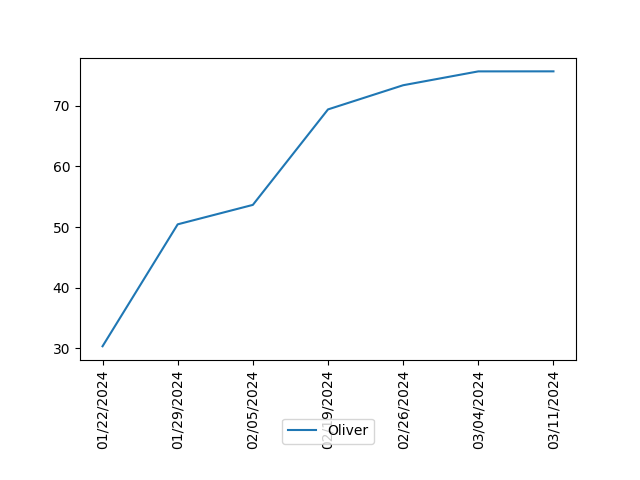
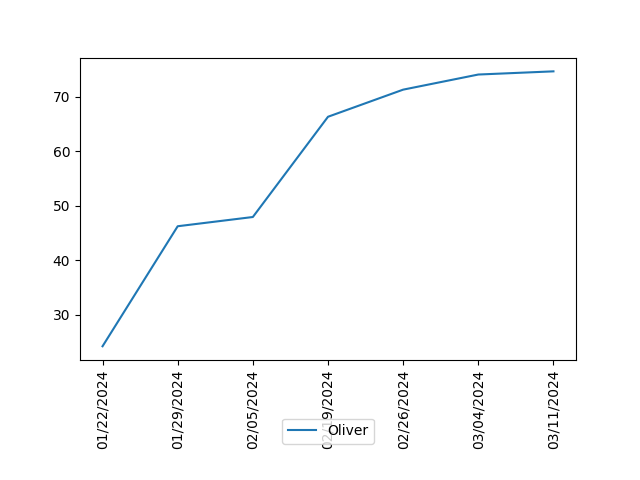
update rankings

diff --git a/parse_results.py b/parse_results.py
@@ -7,7 +7,7 @@ from   trueskill import TrueSkill
 LUCK_FACTORS = {
         'Exploding Kittens': 10.0,
         'What do you Meme': 10.0,
-        'Incan Gold': 5.0,
+        'Incan Gold': 10.0,
         'Love Letter': 5.0,
         'No Thanks': 5.0,
         'Coup' : 3.0,

diff --git a/README.md b/README.md
@@ -5,30 +5,30 @@
 
 | Player | ELO | Wins | Losses | Win % | Best Game |
 | --- | --- | --- | --- | --- | --- |
-| Oliver | 75.67 | 8 | 16 | 33% | Coup |
-| Jelita | 71.93 | 4 | 3 | 57% | Avalon |
-| Simon | 65.70 | 4 | 0 | 100% | Avalon |
-| Jovan | 59.62 | 3 | 2 | 60% | Coup |
-| Abhi | 58.96 | 3 | 1 | 75% | Avalon |
-| Peter | 58.76 | 7 | 7 | 50% | Secret Hitler |
-| Clarys | 55.07 | 2 | 0 | 100% | Love Letter |
-| Susan | 54.80 | 2 | 2 | 50% | Codenames |
-| Kazumi | 49.04 | 1 | 6 | 14% | Camel Up |
-| Dan | 48.43 | 2 | 2 | 50% | Wavelength |
-| Leo | 47.29 | 5 | 13 | 28% | Codenames |
-| Kenny | 44.79 | 1 | 1 | 50% | No Thanks |
-| Harsha | 43.73 | 2 | 3 | 40% | Wavelength |
-| Aaron | 41.62 | 1 | 2 | 33% | Bang |
-| Sincere | 41.45 | 3 | 8 | 27% | Coup |
-| Siri | 39.32 | 1 | 3 | 25% | Love Letter |
-| Queenie | 38.18 | 2 | 4 | 33% | Codenames |
-| Viktoria | 37.72 | 0 | 3 | 0% | No Thanks |
-| Julie | 33.69 | 0 | 1 | 0% | Incan Gold |
-| Rebecca | 28.36 | 0 | 1 | 0% | Avalon |
-| JustinKhoo | 28.10 | 1 | 3 | 25% | Incan Gold |
-| Daphne | 26.80 | 0 | 1 | 0% | Secret Hitler |
-| Vivienne | 25.06 | 0 | 1 | 0% | Codenames |
-| Trista | 22.84 | 0 | 3 | 0% | Bang |
+| Oliver | 74.67 | 8 | 16 | 33% | Coup |
+| Jelita | 68.93 | 4 | 3 | 57% | Avalon |
+| Simon | 64.22 | 4 | 0 | 100% | Avalon |
+| Peter | 61.46 | 7 | 7 | 50% | Secret Hitler |
+| Jovan | 58.68 | 3 | 2 | 60% | Coup |
+| Abhi | 56.81 | 3 | 1 | 75% | Avalon |
+| Susan | 55.70 | 2 | 2 | 50% | Codenames |
+| Clarys | 54.85 | 2 | 0 | 100% | Love Letter |
+| Kazumi | 49.30 | 1 | 6 | 14% | Camel Up |
+| Leo | 47.95 | 5 | 13 | 28% | Codenames |
+| Dan | 47.41 | 2 | 2 | 50% | Wavelength |
+| Kenny | 45.05 | 1 | 1 | 50% | No Thanks |
+| Aaron | 40.33 | 1 | 2 | 33% | Bang |
+| Sincere | 40.28 | 3 | 8 | 27% | Coup |
+| Siri | 39.66 | 1 | 3 | 25% | Love Letter |
+| Harsha | 39.59 | 2 | 3 | 40% | Wavelength |
+| Queenie | 39.46 | 2 | 4 | 33% | Codenames |
+| Viktoria | 38.48 | 0 | 3 | 0% | No Thanks |
+| Julie | 32.58 | 0 | 1 | 0% | Incan Gold |
+| Rebecca | 29.07 | 0 | 1 | 0% | Avalon |
+| Daphne | 27.49 | 0 | 1 | 0% | Secret Hitler |
+| Vivienne | 24.36 | 0 | 1 | 0% | Codenames |
+| Trista | 22.60 | 0 | 3 | 0% | Bang |
+| JustinKhoo | 20.36 | 1 | 3 | 25% | Incan Gold |
 
 ### Rankings over Time
 ![Image](rankings.png)
@@ -39,16 +39,16 @@
 
 | Player | ELO | Wins | Losses | Win % |
 | --- | --- | --- | --- | --- |
-| Oliver | 51.19  | 0 | 2 | 0% |
-| JustinKhoo | 50.70  | 1 | 0 | 100% |
-| Jelita | 43.24  | 0 | 1 | 0% |
-| Sincere | 38.66  | 1 | 1 | 50% |
-| Abhi | 38.42  | 0 | 1 | 0% |
-| Harsha | 37.19  | 0 | 1 | 0% |
-| Julie | 33.69  | 0 | 1 | 0% |
+| JustinKhoo | 41.70  | 1 | 0 | 100% |
+| Oliver | 41.55  | 0 | 2 | 0% |
+| Jelita | 37.61  | 0 | 1 | 0% |
+| Abhi | 35.06  | 0 | 1 | 0% |
+| Sincere | 34.80  | 1 | 1 | 50% |
+| Harsha | 34.32  | 0 | 1 | 0% |
+| Julie | 32.58  | 0 | 1 | 0% |
 | Dan | 31.07  | 0 | 1 | 0% |
-| Leo | 28.25  | 0 | 1 | 0% |
-| Peter | 20.02  | 0 | 1 | 0% |
+| Leo | 29.76  | 0 | 1 | 0% |
+| Peter | 25.58  | 0 | 1 | 0% |
 
 ### Avalon
 
